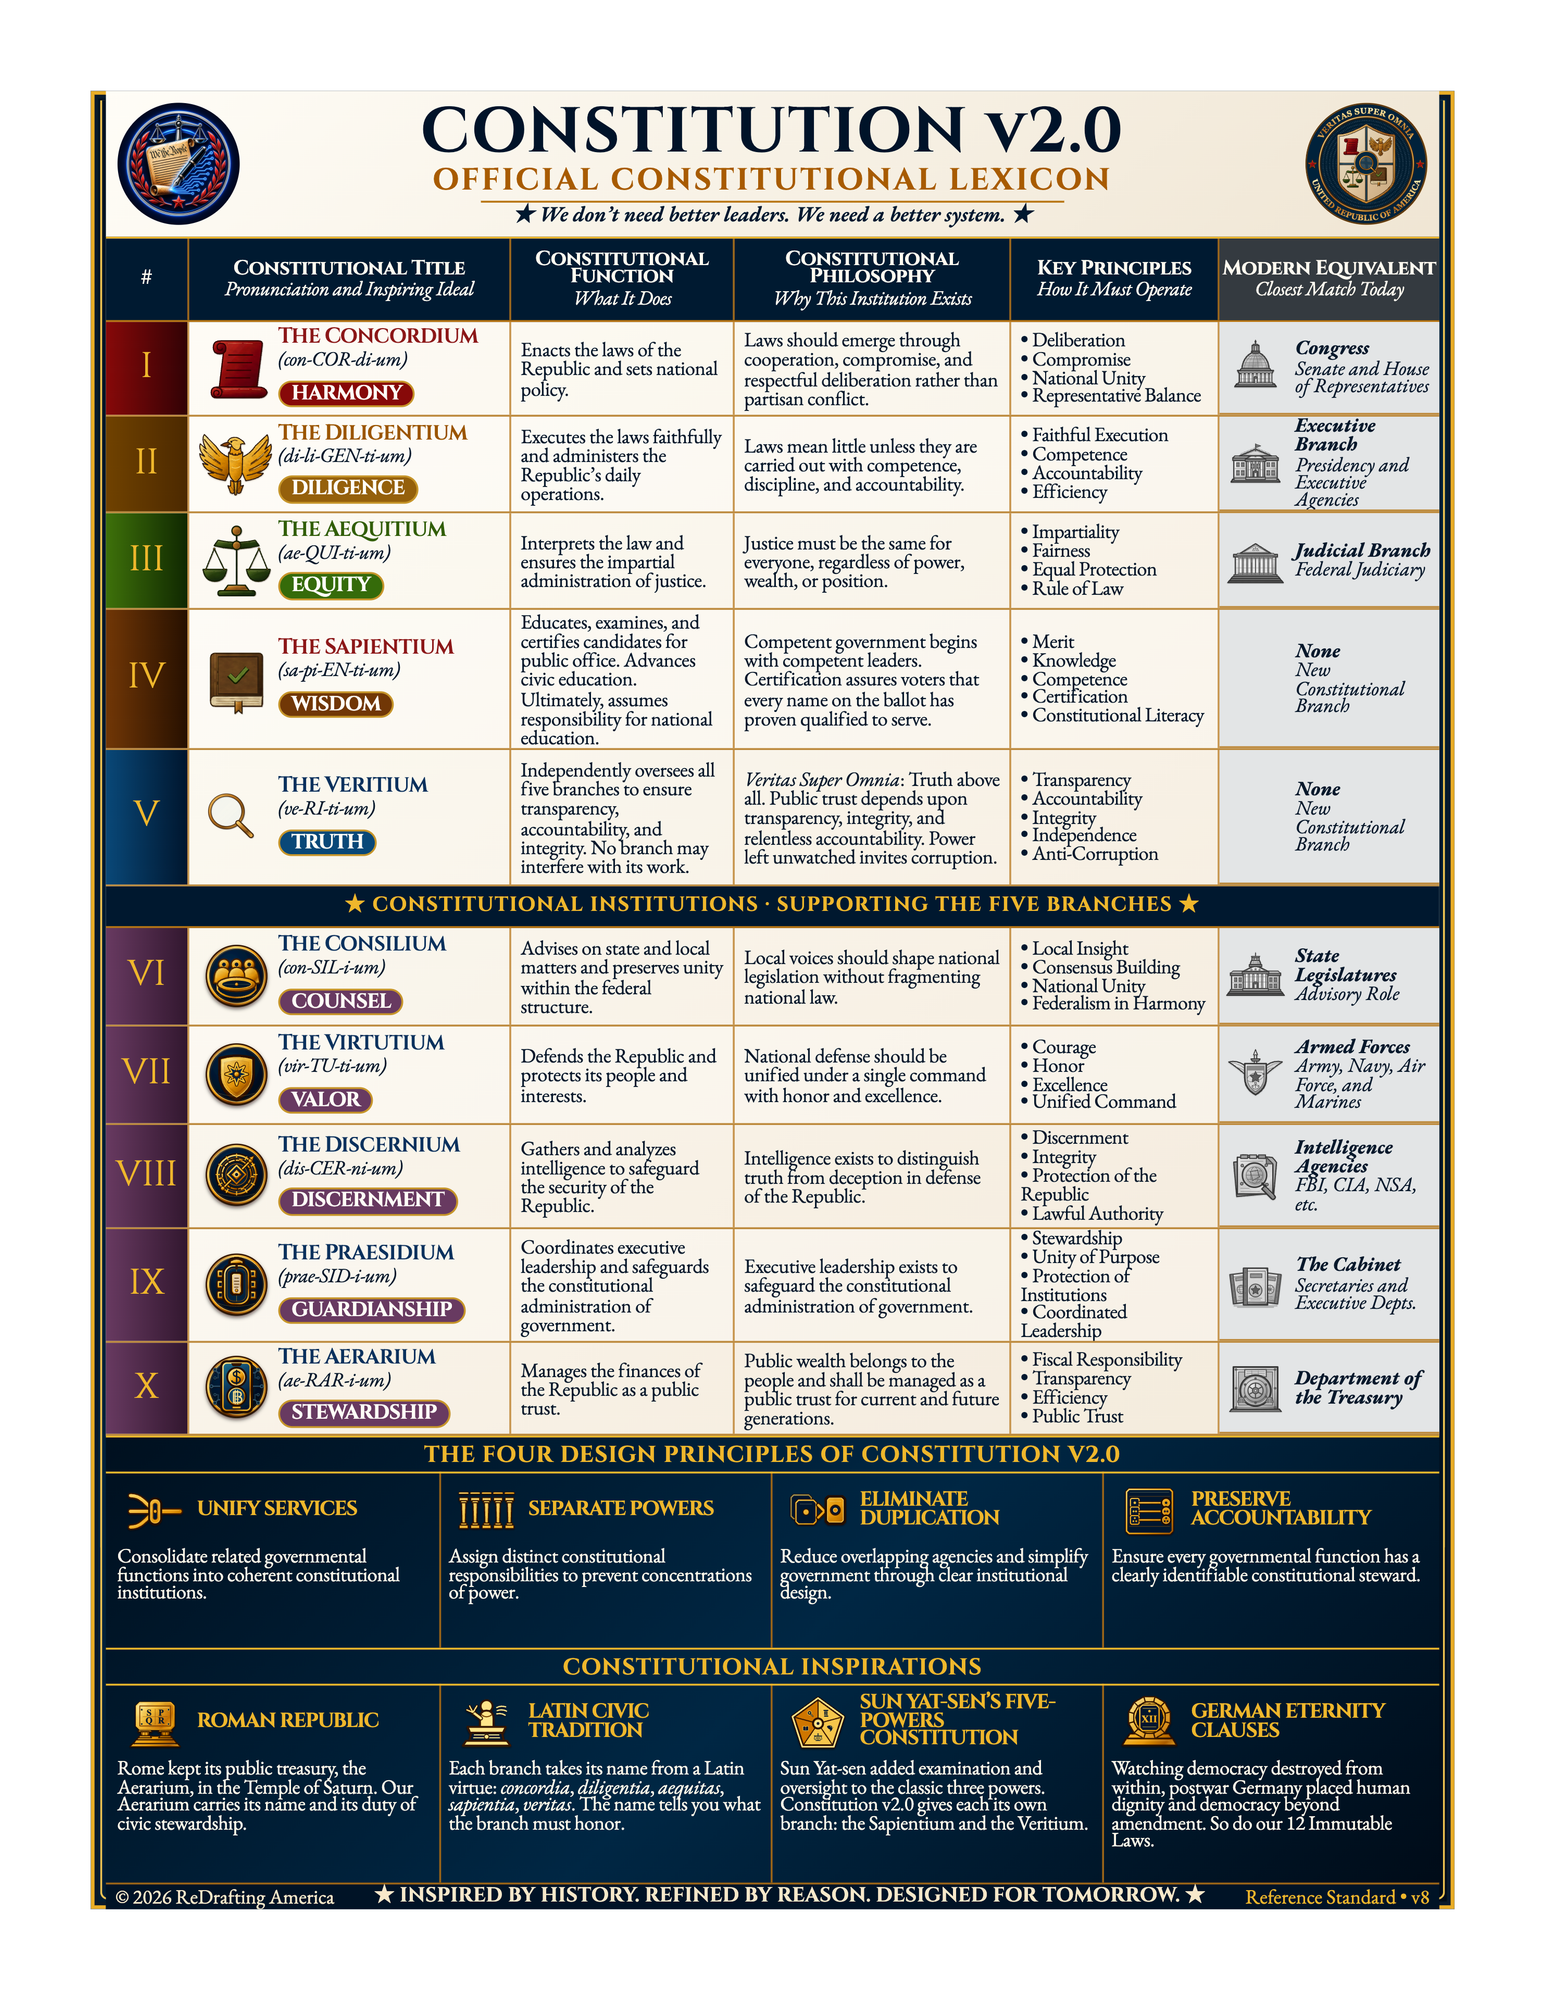
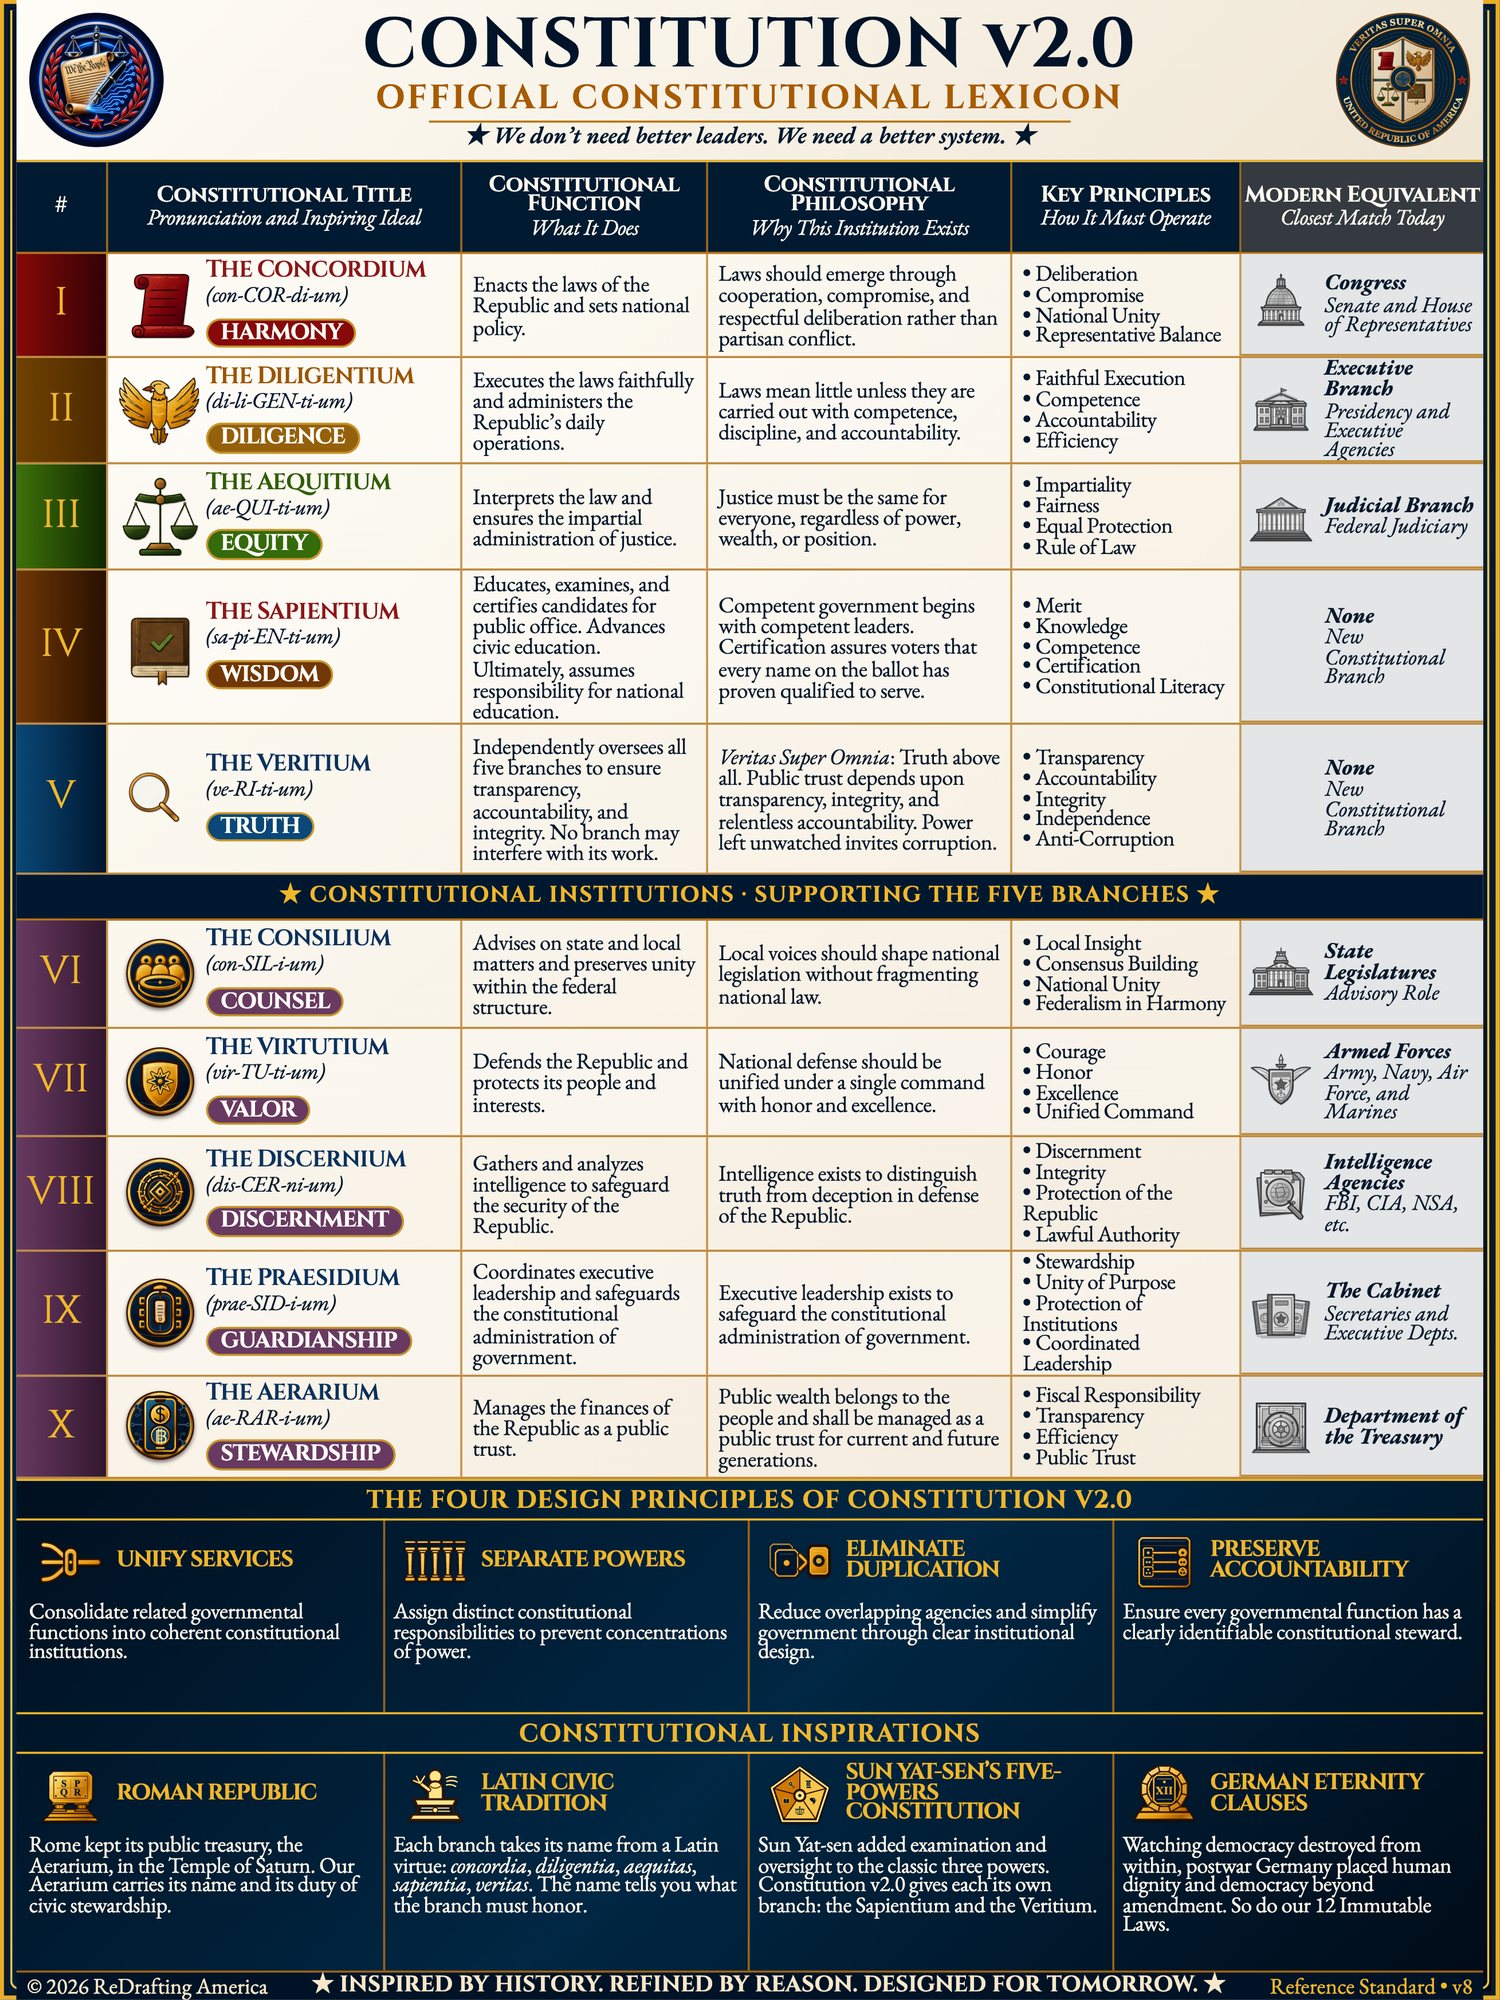
Use frameless portrait Lexicon artwork

diff --git a/index.html b/index.html
@@ -640,7 +640,7 @@
       <div class="split reverse lexicon-feature">
         <div class="preview-card">
           <button class="lexicon-open" id="lexicon-open" type="button" aria-haspopup="dialog" aria-controls="lexicon-dialog" aria-label="Enlarge the Constitutional Lexicon">
-            <img src="assets/images/constitution-v2-lexicon-portrait.png?v=20260924-2" width="1545" height="2000" alt="Portrait edition of the Redrafting America Constitution v2.0 Official Constitutional Lexicon, listing ten constitutional institutions with their functions and principles" loading="lazy" />
+            <img src="assets/images/constitution-v2-lexicon-portrait.png?v=20260924-4" width="1500" height="2000" alt="Portrait edition of the Redrafting America Constitution v2.0 Official Constitutional Lexicon, listing ten constitutional institutions with their functions and principles" loading="lazy" />
           </button>
         </div>
         <div>
@@ -658,8 +658,8 @@
 
   <dialog class="seal-dialog" id="lexicon-dialog" aria-label="Constitutional Lexicon full-size viewer">
     <button class="seal-dialog-close" id="lexicon-dialog-close" type="button" aria-label="Close full-size Constitutional Lexicon">&times;</button>
-    <img src="assets/images/constitution-v2-lexicon-portrait-4k.png?v=20260924-2" width="2967" height="3840" alt="Full-size portrait edition of the Redrafting America Constitution v2.0 Official Constitutional Lexicon" />
-    <a class="seal-dialog-original" href="assets/images/constitution-v2-lexicon-portrait-4k.png?v=20260924-2" target="_blank" rel="noopener">Open 2967-by-3840 image</a>
+    <img src="assets/images/constitution-v2-lexicon-portrait-4k.png?v=20260924-4" width="2618" height="3491" alt="Full-size portrait edition of the Redrafting America Constitution v2.0 Official Constitutional Lexicon" />
+    <a class="seal-dialog-original" href="assets/images/constitution-v2-lexicon-portrait-4k.png?v=20260924-4" target="_blank" rel="noopener">Open 2618-by-3491 image</a>
   </dialog>
 
   <!-- ================= CITIZEN PORTAL ================= -->
